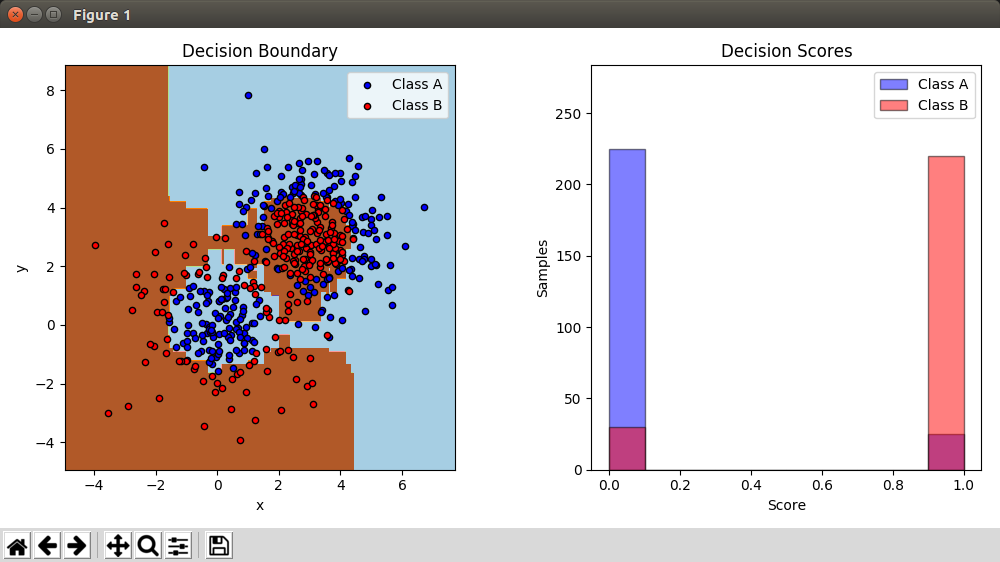
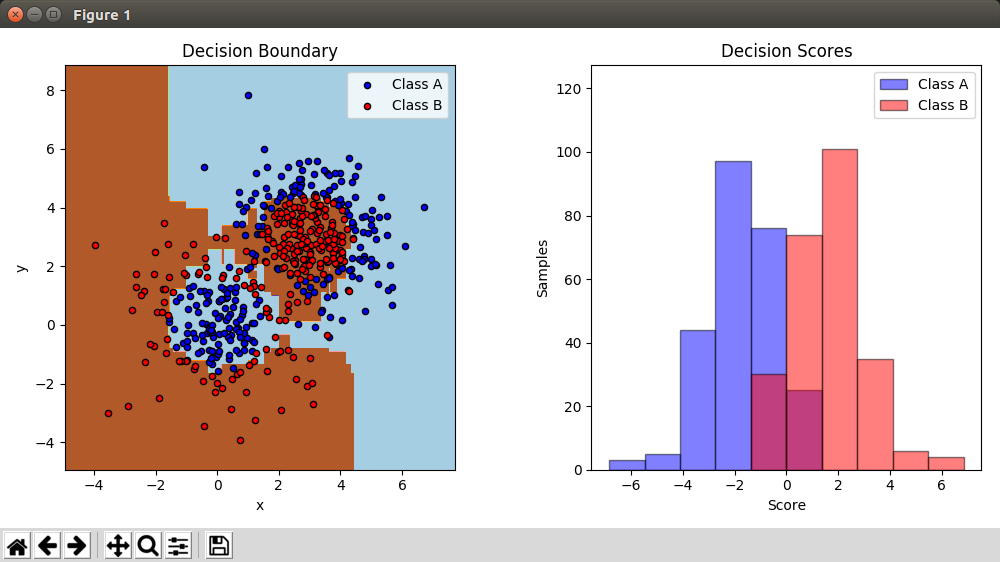
Add function weightedSum to AdaBoost.
Fix decision scores plot.

Changed region(s): [[0.558, 0.242, 0.992, 0.8772], [0.558, 0.1512, 0.589, 0.2117], [0.0, 0.0, 0.031, 0.0302]]

diff --git a/adaboost/adaboost.py b/adaboost/adaboost.py
@@ -120,14 +120,32 @@ class AdaBoostClassifier:
             The predict result of the testing samples.
         """
 
+        hsum = self.weightedSum(test_set_)
+
+        yPred = np.sign(hsum)
+        yPred[yPred == -1] = 0
+        return yPred
+
+    def weightedSum(self, test_set_):
+        """Return the weighted sum of all weak classifiers
+
+        Parameters
+        ----------
+        test_set_ : array-like of shape = [n_samples, n_features]
+            The inputs of the testing samples.
+
+        Returns
+        -------
+        hSum : np.array of shape = [n_samples]
+            The predict result of the testing samples.
+        """
+
         test_set = np.array(test_set_)
 
         assert test_set.shape[1] == self.features
 
-        sumv = 0
+        hsum = 0
         for i in range(self.nWC):
-            sumv = sumv + self.alpha[i] * self.WCs[i].predict(test_set)
+            hsum = hsum + self.alpha[i] * self.WCs[i].predict(test_set)
 
-        yPred = np.sign(sumv)
-        yPred[yPred == -1] = 0
-        return yPred
+        return hsum

diff --git a/test.py b/test.py
@@ -66,7 +66,7 @@ yPred = bdt.predict(X)
 print("accuracy:", np.sum(yPred == y)/y.size)
 
 # Plot the two-class decision scores
-twoclass_output = yPred # bdt.decision_function(X)
+twoclass_output = bdt.weightedSum(X) # bdt.decision_function(X)
 plot_range = (twoclass_output.min(), twoclass_output.max())
 plt.subplot(122)
 for i, n, c in zip(range(2), class_names, plot_colors):
